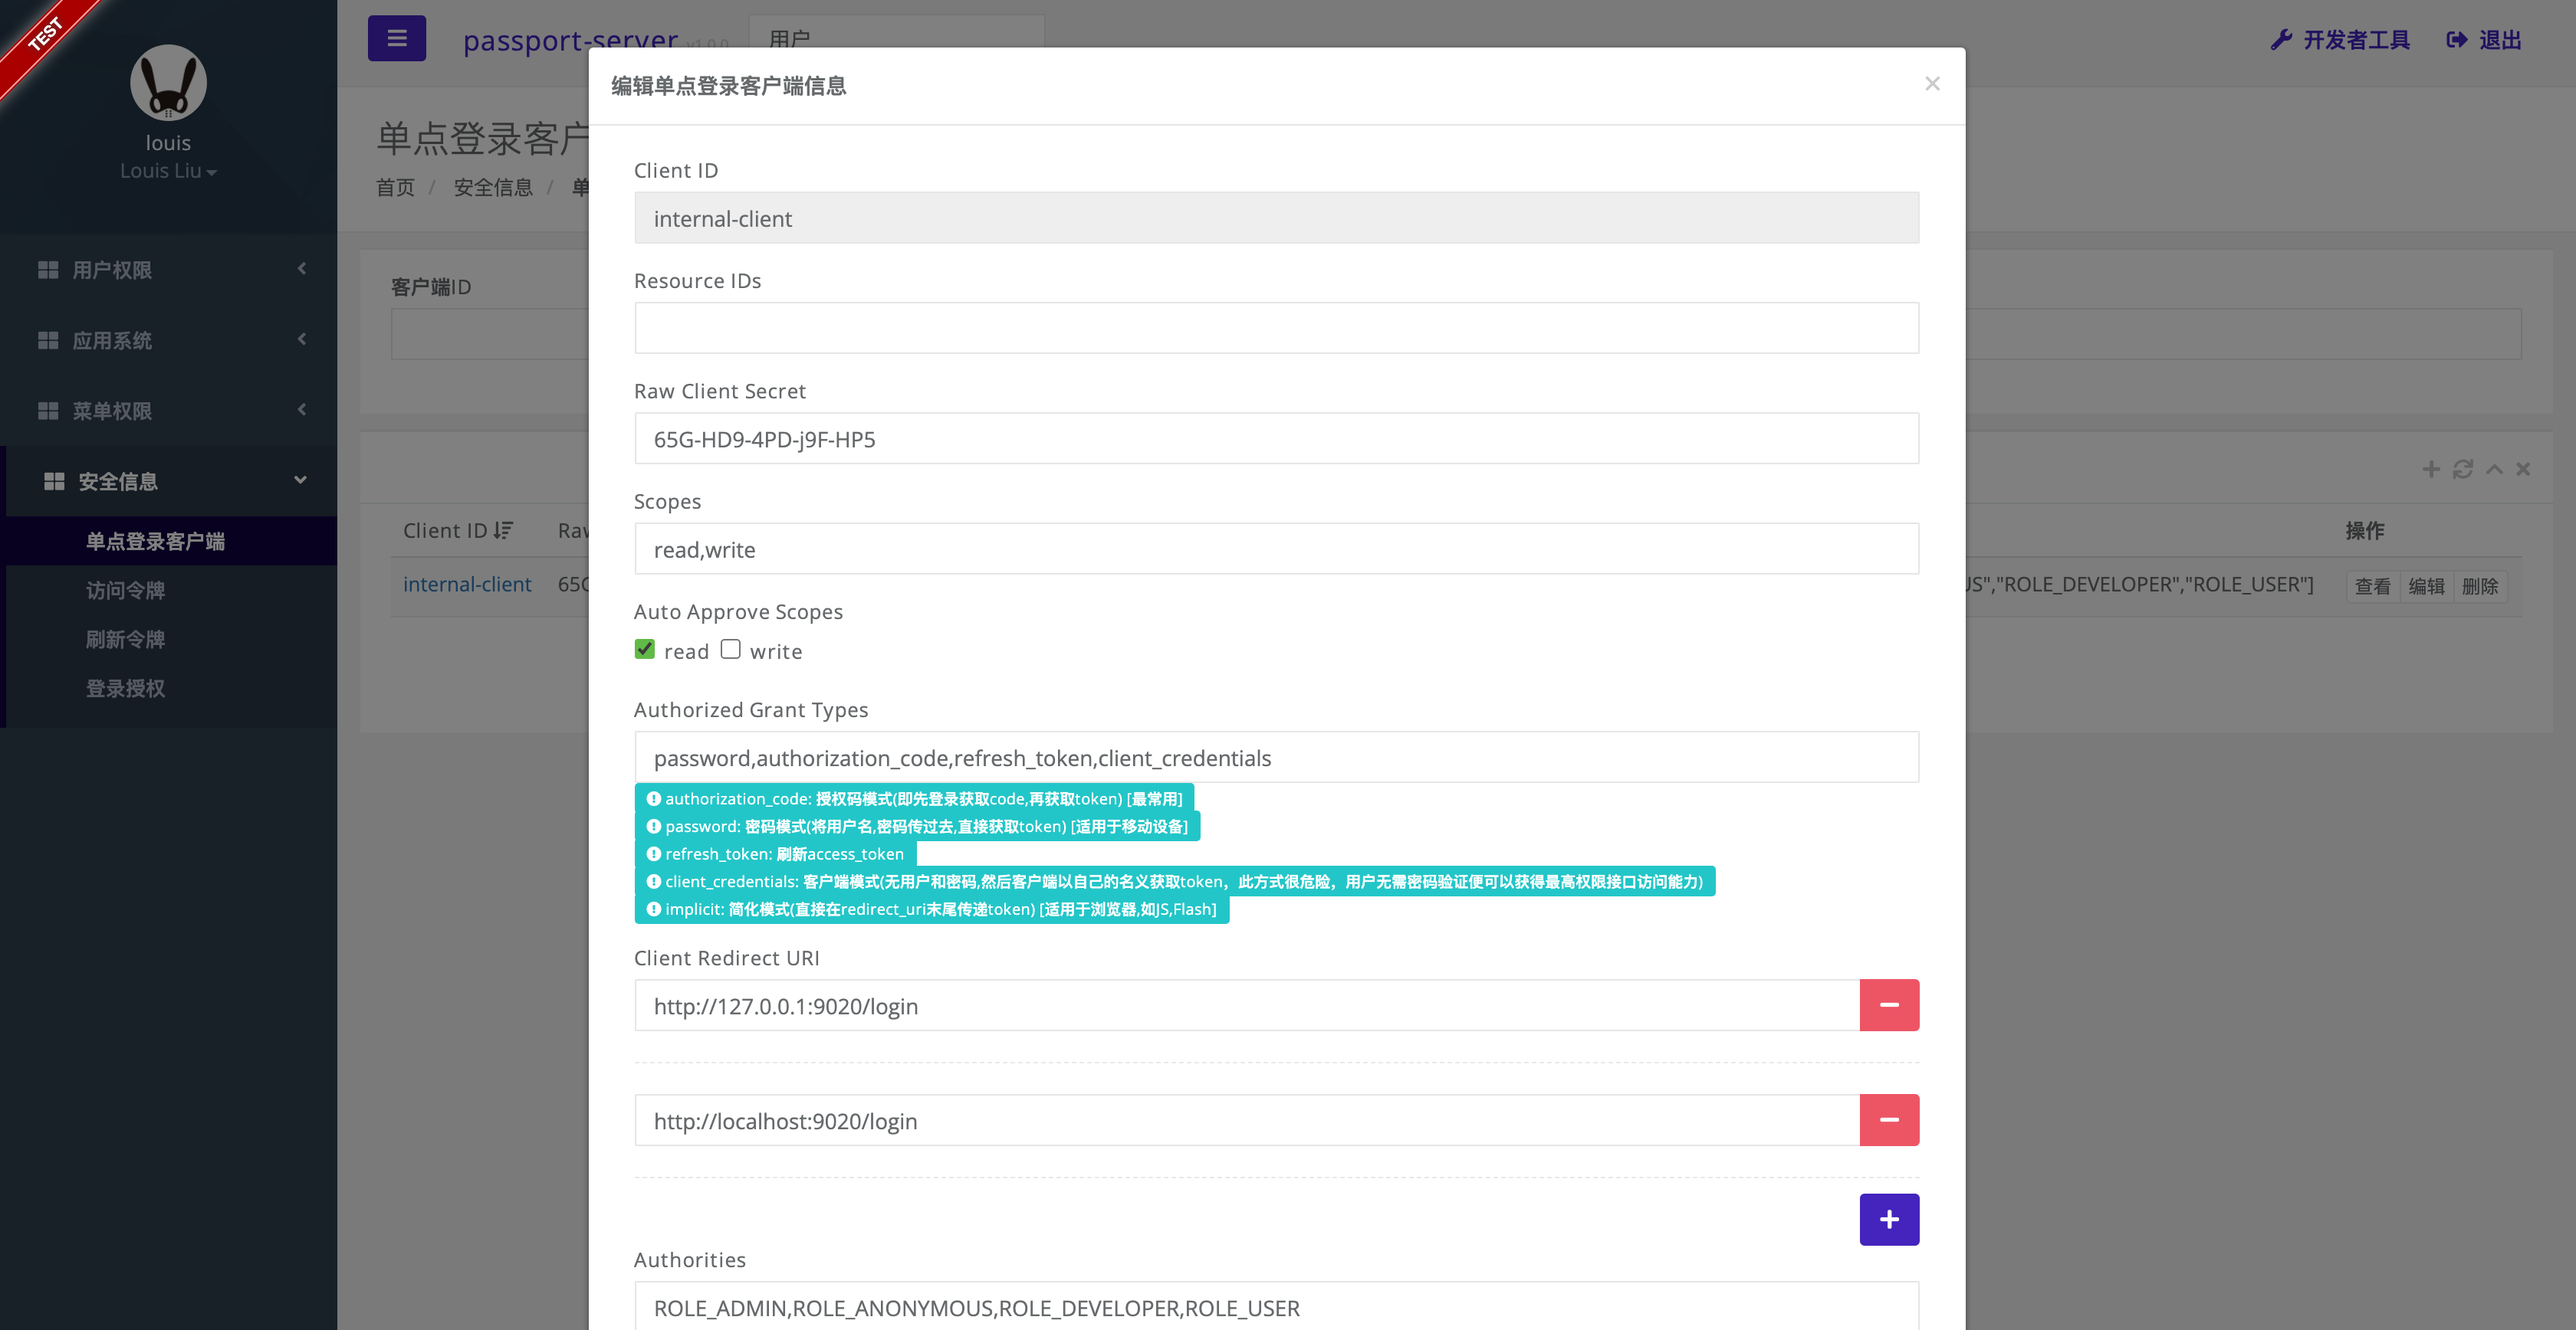
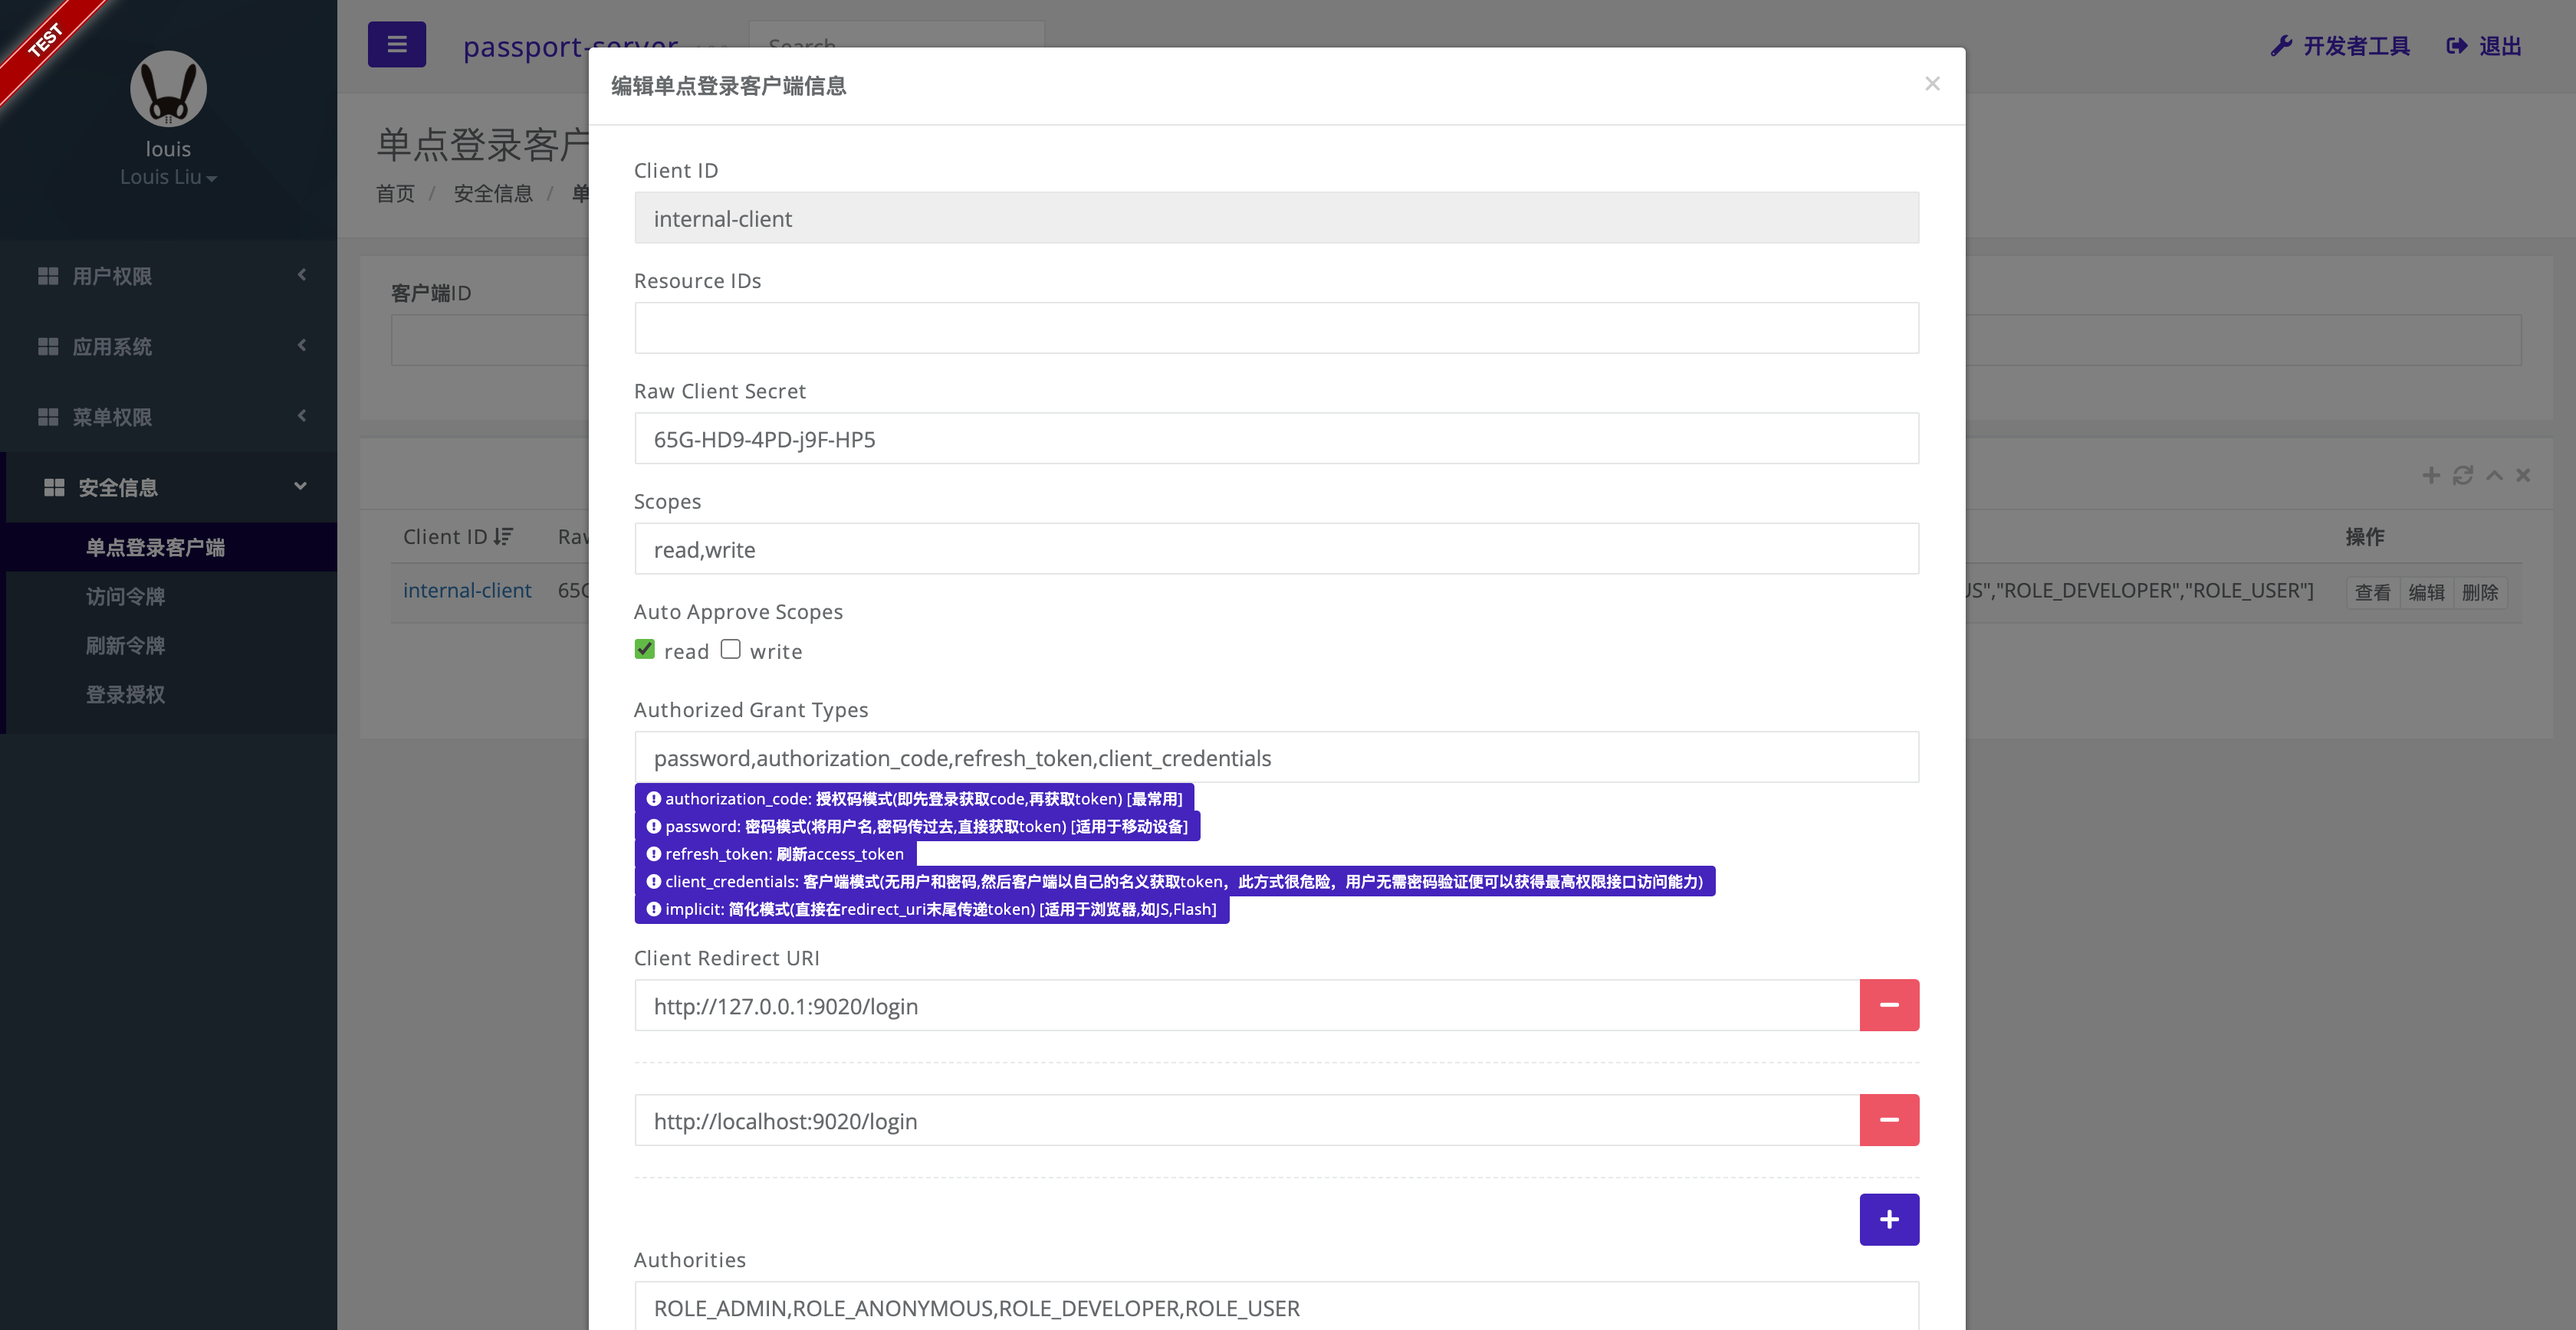
refactor README.md

diff --git a/passport-server/src/main/webapp/app/views/admin/oauth2-client/oauth2-client-dialog.html b/passport-server/src/main/webapp/app/views/admin/oauth2-client/oauth2-client-dialog.html
@@ -64,31 +64,31 @@
             <input type="text" class="form-control" name="authorizedGrantTypes"
                    ng-model="vm.entity.authorized_grant_types" ng-maxlength="100">
             <div>
-                <p class="label label-info">
+                <p class="label label-primary">
                     <span class="fa fa-exclamation-circle" aria-hidden="true"></span>
                     authorization_code: 授权码模式(即先登录获取code,再获取token) [最常用]
                 </p>
             </div>
             <div>
-                <p class="label label-info">
+                <p class="label label-primary">
                     <span class="fa fa-exclamation-circle" aria-hidden="true"></span>
                     password: 密码模式(将用户名,密码传过去,直接获取token) [适用于移动设备]
                 </p>
             </div>
             <div>
-                <p class="label label-info">
+                <p class="label label-primary">
                     <span class="fa fa-exclamation-circle" aria-hidden="true"></span>
                     refresh_token: 刷新access_token
                 </p>
             </div>
             <div>
-                <p class="label label-info">
+                <p class="label label-primary">
                     <span class="fa fa-exclamation-circle" aria-hidden="true"></span>
                     client_credentials: 客户端模式(无用户和密码,然后客户端以自己的名义获取token，此方式很危险，用户无需密码验证便可以获得最高权限接口访问能力)
                 </p>
             </div>
             <div>
-                <p class="label label-info">
+                <p class="label label-primary">
                     <span class="fa fa-exclamation-circle" aria-hidden="true"></span>
                     implicit: 简化模式(直接在redirect_uri末尾传递token) [适用于浏览器,如JS,Flash]
                 </p>
